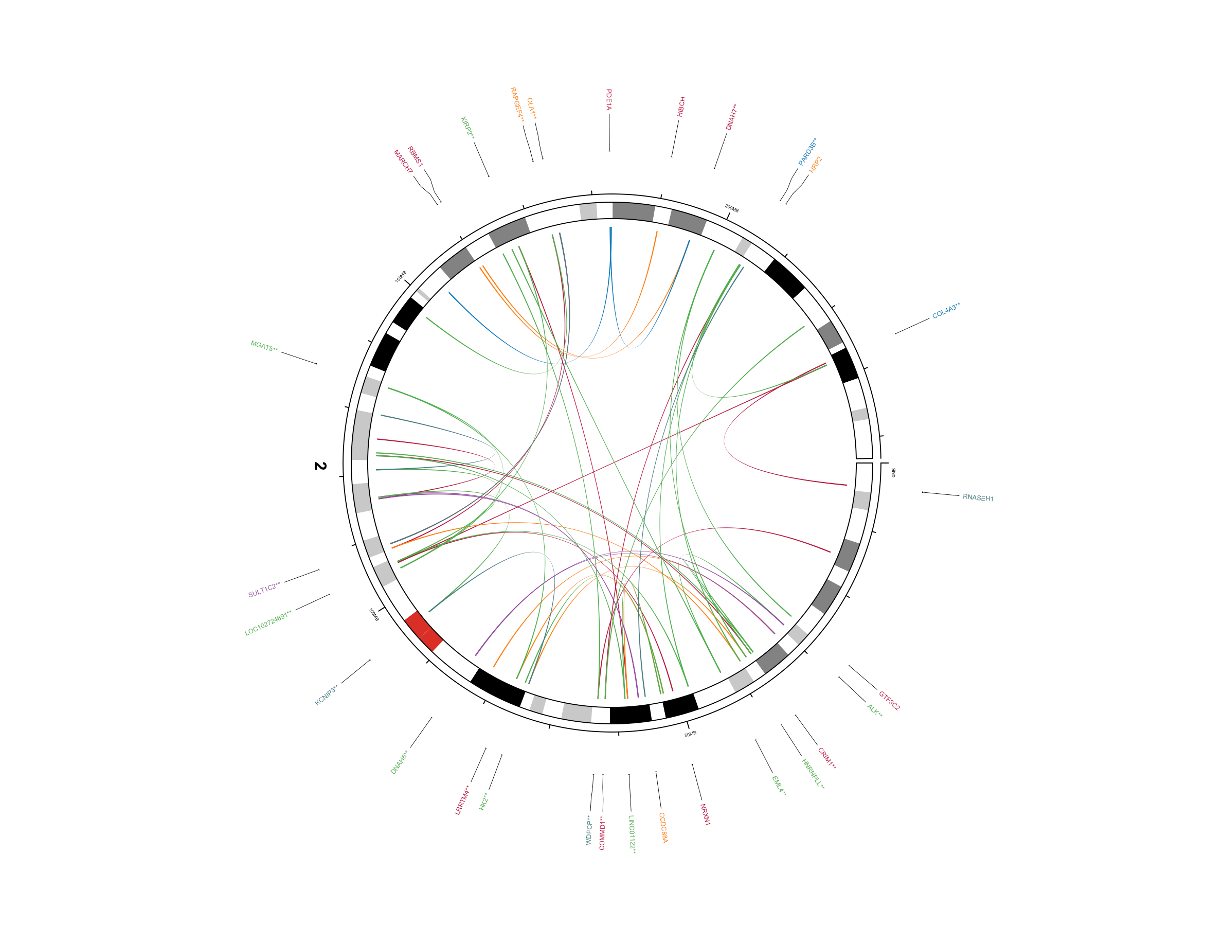
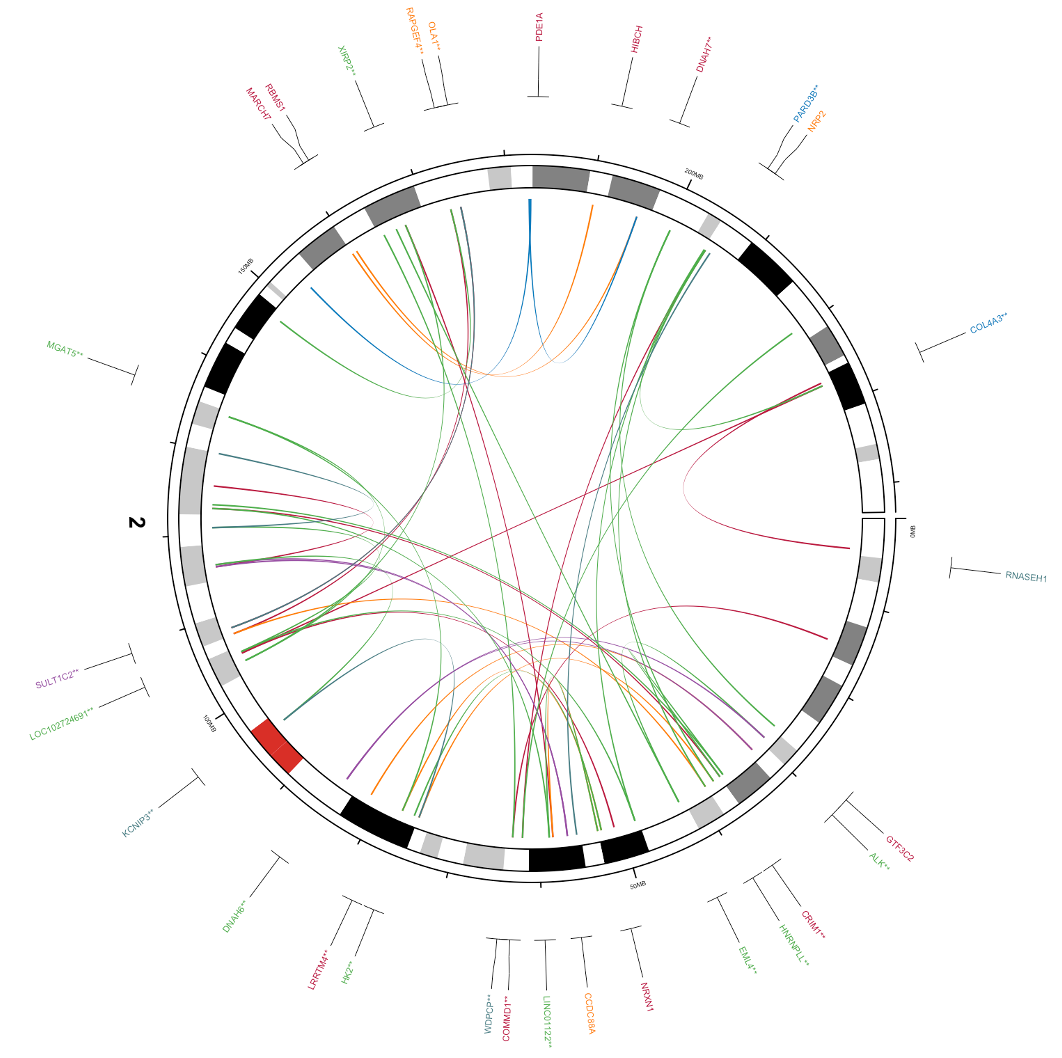
improve figures

diff --git a/sessions/session_6/practical.md b/sessions/session_6/practical.md
@@ -720,6 +720,7 @@ The first task requires filtering the tables bed1, bed2, and bed_genes to just t
 <details><summary></summary>
 
 <blockquote markdown="1">
+
 {% include code-block-copy.html %}
 ```R
 # Extract the data for the breakpoints 'A', adding 200000 to the end position
@@ -739,6 +740,7 @@ bed2_chr2 <- svdata %>%
 # Filter the gene annotation track
 bed_gene_chr2<-bed_gene%>%filter(chr=="chr2")
 ```
+
 </blockquote></details><br>
 
 Once we have the tables, we need to limit the ideogram to only chr2 and plot using the  tables we just generated in the first part. To change the ideogram, think about which parts of the circos code handled the various parts of the ideogram (**Hint:** these parts of the code are very appropriately named).
@@ -788,14 +790,14 @@ circos.initializeWithIdeogram(plotType = NULL,chromosome.index = "chr2")
 
 # If there are genes associated with the SVs, add a track showing the gene locations and gene name
 if(dim(bed_gene)[1]>0){
-  circos.genomicLabels(bed_gene%>%filter(chr=="chr2"), labels.column = 4, col=bed_gene$color,side = "outside",cex = 0.4,line_lwd = 0.5,track.margin = c(0,-0.1))
+  circos.genomicLabels(bed_gene%>%filter(chr=="chr2"), labels.column = 4, col=bed_gene$color,side = "outside",cex = 0.6,line_lwd = 0.5,track.margin = c(0,-0.1))
 } else {
   # If there are no genes associated with the SVs, add an empty track
   circos.track(ylim = c(0, 1), bg.col = NULL,bg.border="White",track.height = convert_height(6, "mm"))
 }
 
 # initialize the Circos with chromosome labels only
-circos.initializeWithIdeogram2(plotType = c("labels"))
+# circos.initializeWithIdeogram2(plotType = c("labels"),track.height = 0.0000001)
 # initialize the Circos with chromosome axis and ideogram only
 circos.initializeWithIdeogram2(plotType = c("ideogram","axis"),ideogram.height = 0.04,track.height = 0.02,major.by = 5e7,chromosome.index = "chr2")
 
